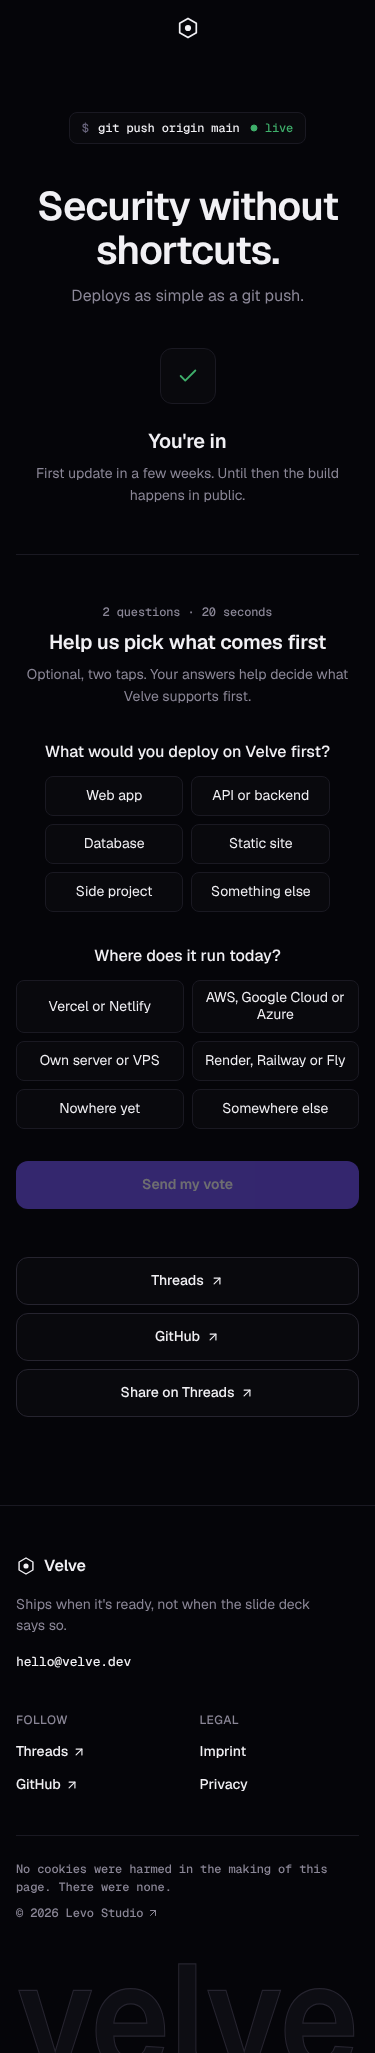
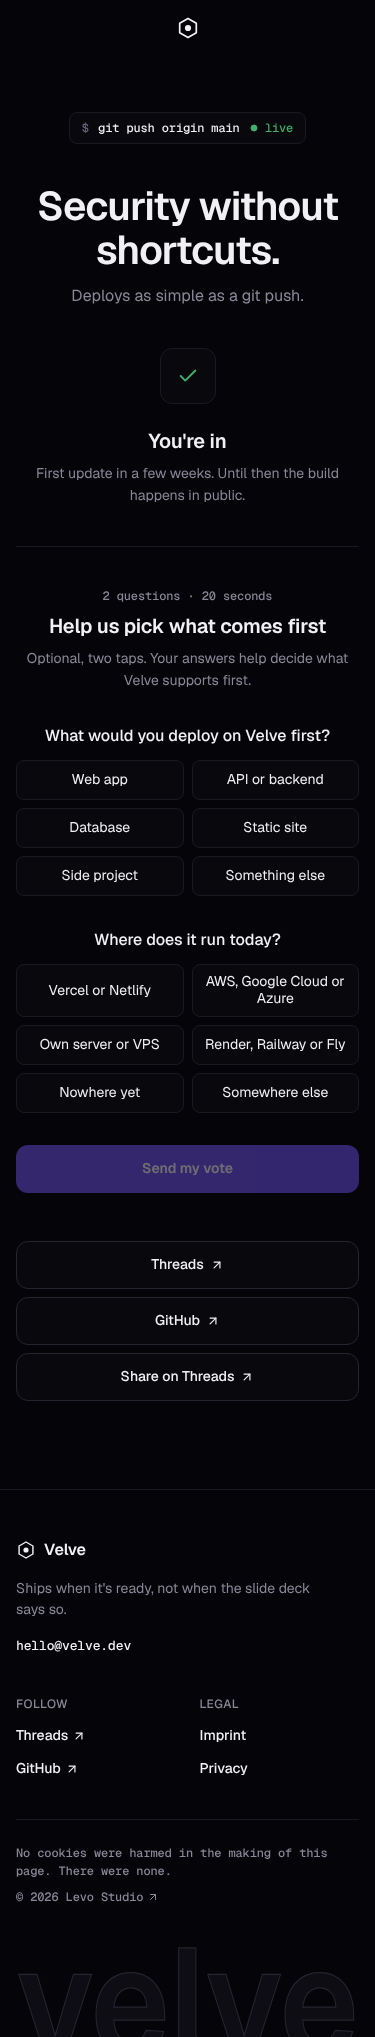
fix: keep the questions hairline at 40px and answer groups full width
The hairline above the questions sat 48px from its neighbours because
the notice gap added to its 40px margin, and on phones the first answer
group shrank to its content instead of filling two equal columns. The
privacy check now also covers "You're already in", and a unit test
pins that /questions/ tokens never reach analytics.

diff --git a/tests/e2e/questions.spec.ts b/tests/e2e/questions.spec.ts
@@ -75,6 +75,25 @@ for (const viewport of viewports) {
       });
     });
 
+    test("the hairline keeps 40px and both answer groups share one width", async ({ page }) => {
+      await confirmedPage(page, `layout${viewport.width}`);
+      const box = async (selector: string) => {
+        const found = await page.locator(selector).first().boundingBox();
+        if (found === null) throw new Error(`${selector} is not rendered`);
+        return found;
+      };
+      const sentence = await box("main section > p");
+      const hairline = await box("main hr");
+      const block = await box('section[aria-labelledby="questions-title"]');
+      expect(Math.round(hairline.y - (sentence.y + sentence.height))).toBe(40);
+      expect(Math.round(block.y - (hairline.y + hairline.height))).toBe(40);
+      const groups = page.locator("fieldset");
+      const widths = await groups.evaluateAll((elements) =>
+        elements.map((element) => Math.round(element.getBoundingClientRect().width)),
+      );
+      expect(widths).toEqual([Math.round(block.width), Math.round(block.width)]);
+    });
+
     test("already listed shows the questions too", async ({ page }) => {
       const { link } = await confirmedPage(page, `again${viewport.width}`);
       await page.goto(link);

diff --git a/tests/e2e/security.spec.ts b/tests/e2e/security.spec.ts
@@ -69,9 +69,14 @@ test("pages make no foreign requests, set no cookies and store nothing", async (
   }
   const email = uniqueEmail("privacy");
   await signUp(page, email);
-  await page.goto(
-    linkFrom(await waitForMail(email, "Confirm your spot on the Velve waitlist"), "/confirm"),
+  const confirmLink = linkFrom(
+    await waitForMail(email, "Confirm your spot on the Velve waitlist"),
+    "/confirm",
   );
+  await page.goto(confirmLink);
+  await page.waitForLoadState("networkidle");
+  await page.goto(confirmLink);
+  await expect(page.getByRole("heading", { name: "You're already in" })).toBeVisible();
   await page.waitForLoadState("networkidle");
   await page.goto(linkFrom(await waitForMail(email, "You're on the Velve waitlist"), "/questions"));
   await page.waitForLoadState("networkidle");

diff --git a/src/components/questions-block.tsx b/src/components/questions-block.tsx
@@ -58,7 +58,7 @@ function ChoiceGroup<T extends string>({
   onSelect: (choice: T) => void;
 }) {
   return (
-    <fieldset className="m-0 flex flex-col gap-3 border-0 p-0">
+    <fieldset className="m-0 flex w-full min-w-0 flex-col gap-3 border-0 p-0">
       <legend className="mb-3 p-0 text-16 font-medium text-primary">{legend}</legend>
       <div className="grid grid-cols-2 gap-2 desk:flex desk:flex-wrap desk:justify-center">
         {choices.map((choice) => {

diff --git a/src/app/confirm/[token]/page.tsx b/src/app/confirm/[token]/page.tsx
@@ -20,7 +20,7 @@ export const metadata: Metadata = {
 const threadsShareUrl = `https://www.threads.com/intent/post?text=${encodeURIComponent(share.text)}`;
 
 function QuestionsDivider() {
-  return <hr aria-hidden="true" className="my-10 h-px w-full border-0 bg-line" />;
+  return <hr aria-hidden="true" className="my-8 h-px w-full border-0 bg-line" />;
 }
 
 export default async function ConfirmPage({ params }: { params: Promise<{ token: string }> }) {

diff --git a/tests/unit/analytics.test.ts b/tests/unit/analytics.test.ts
@@ -5,6 +5,7 @@ describe("publicPath", () => {
   it("drops link tokens before anything reaches analytics", () => {
     expect(publicPath("/confirm/abcDEF123_-")).toBe("/confirm");
     expect(publicPath("/unsubscribe/abcDEF123_-")).toBe("/unsubscribe");
+    expect(publicPath("/questions/abcDEF123_-")).toBe("/questions");
   });
 
   it("keeps ordinary paths", () => {
